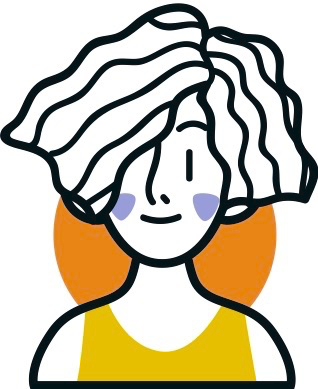
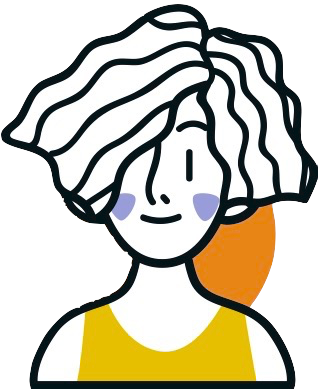
welcome page statless draft finish for now

diff --git a/client/src/components/Welcome/ActionAvatar.jsx b/client/src/components/Welcome/ActionAvatar.jsx
@@ -2,7 +2,7 @@ import { useState } from 'react';
 import { useTheme } from '@mui/material/styles';
 import Box from '@mui/material/Box';
 import MobileStepper from '@mui/material/MobileStepper';
-import Paper from '@mui/material/Paper';
+// import Paper from '@mui/material/Paper';
 // import Typography from '@mui/material/Typography';
 import Button from '@mui/material/Button';
 import KeyboardArrowLeft from '@mui/icons-material/KeyboardArrowLeft';
@@ -15,35 +15,35 @@ import SwipeableViews from 'react-swipeable-views';
 const images = [
   {
     label: '1',
-    imgPath: './avatars/avatar-temp-8.jpg'
+    imgPath: './avatars/avatar-temp-8.png'
   },
   {
     label: '2',
-    imgPath: './avatars/avatar-temp-7.jpg'
+    imgPath: './avatars/avatar-temp-7.png'
   },
   {
     label: '3',
-    imgPath: './avatars/avatar-temp-6.jpg'
+    imgPath: './avatars/avatar-temp-6.png'
   },
   {
     label: '4',
-    imgPath: './avatars/avatar-temp-5.jpg'
+    imgPath: './avatars/avatar-temp-5.png'
   },
   {
     label: '5',
-    imgPath: './avatars/avatar-temp-4.jpg'
+    imgPath: './avatars/avatar-temp-4.png'
   },
   {
     label: '6',
-    imgPath: './avatars/avatar-temp-3.jpg'
+    imgPath: './avatars/avatar-temp-3.png'
   },
   {
     label: '7',
-    imgPath: './avatars/avatar-temp-2.jpg'
+    imgPath: './avatars/avatar-temp-2.png'
   },
   {
     label: '8',
-    imgPath: './avatars/avatar-temp-1.jpg'
+    imgPath: './avatars/avatar-temp-1.png'
   }
 ];
 
@@ -66,8 +66,8 @@ export default function ActionAvatar() {
 
   return (
     <Box sx={{ maxWidth: 400, maxHeight: 210, flexGrow: 1 }}>
-      <Paper
-        square
+      {/* <Paper */}
+        {/* square
         elevation={0}
         sx={{
           display: 'flex',
@@ -75,39 +75,39 @@ export default function ActionAvatar() {
           height: 20,
           bgcolor: 'background.default'
         }}
-      >
+      > */}
         {/* <Typography>{images[activeStep].label}</Typography> */}
-      </Paper>
-      <div className="tri--avatar">
+      {/* </Paper> */}
+      <div className="tri-avatar">
         <img alt="tri" src="./tri-border.png"
         />
-      <SwipeableViews
-        axis={theme.direction === 'rtl' ? 'x-reverse' : 'x'}
-        index={activeStep}
-        onChangeIndex={handleStepChange}
-        enableMouseEvents
-      >
-        {images.map((step, index) => (
-          <div key={step.label} style={{
-            display: 'flex',
-            justifyContent: 'center',
-          }}
-          >
-            {Math.abs(activeStep - index) <= 2 ? (
-              <Box
-                component="img"
-                sx={{
-                  overflow: 'hidden',
-                  maxWidth: 120,
-                  width: '100%',
-                }}
-                src={step.imgPath}
-                alt={step.label}
-              />
-            ) : null}
-          </div>
-        ))}
-      </SwipeableViews>
+        <SwipeableViews
+          axis={theme.direction === 'rtl' ? 'x-reverse' : 'x'}
+          index={activeStep}
+          onChangeIndex={handleStepChange}
+          enableMouseEvents
+        >
+          {images.map((step, index) => (
+            <div key={step.label} style={{
+              display: 'flex',
+              justifyContent: 'center',
+            }}
+            >
+              {Math.abs(activeStep - index) <= 2 ? (
+                <Box
+                  component="img"
+                  sx={{
+                    overflow: 'hidden',
+                    maxWidth: 120,
+                    width: '100%',
+                  }}
+                  src={step.imgPath}
+                  alt={step.label}
+                />
+              ) : null}
+            </div>
+          ))}
+        </SwipeableViews>
       </div>
       <MobileStepper
         sx={{

diff --git a/client/src/components/Welcome/Welcome.css b/client/src/components/Welcome/Welcome.css
@@ -6,14 +6,15 @@
   align-items: center;
 }
 
-h1 {
+.main-title {
   margin: 0;
   font-weight: 900;
   font-style: italic;
-  font-size: 80px;
+  font-size: 83px;
+  margin-bottom: 12px;
 }
 
-.tri--avatar {
+.tri-avatar {
   display: flex;
   justify-content: center;
     align-items: center;

diff --git a/client/src/components/Welcome/ActionWelcome.jsx b/client/src/components/Welcome/ActionWelcome.jsx
@@ -30,7 +30,7 @@ export default function ActionWelcome() {
           justifyContent: "center",
           alignItems: "center",
           minWidth: 406,
-          height: 365,
+          height: 340,
           width: '70%'
         }}>
         <ActionAvatar />

diff --git a/client/src/components/Welcome/Welcome.jsx b/client/src/components/Welcome/Welcome.jsx
@@ -7,7 +7,7 @@ import './Welcome.css';
 export default function Welcome(props) {
   return (
     <div className="welcome-main">
-      <h1>MadCap</h1>
+      <h1 className="main-title">MadCap</h1>
       <ActionWelcome />
       <HowToPlay />
     </div>

diff --git a/client/src/components/Welcome/ActionButton.jsx b/client/src/components/Welcome/ActionButton.jsx
@@ -12,7 +12,7 @@ export default function ActionButton(props) {
           width: 380,
           height: 65,
           fontSize: 30,
-          mb: 10
+          mb: 3.5
         }}
       >{props.message}</Button>
     </Fragment>
